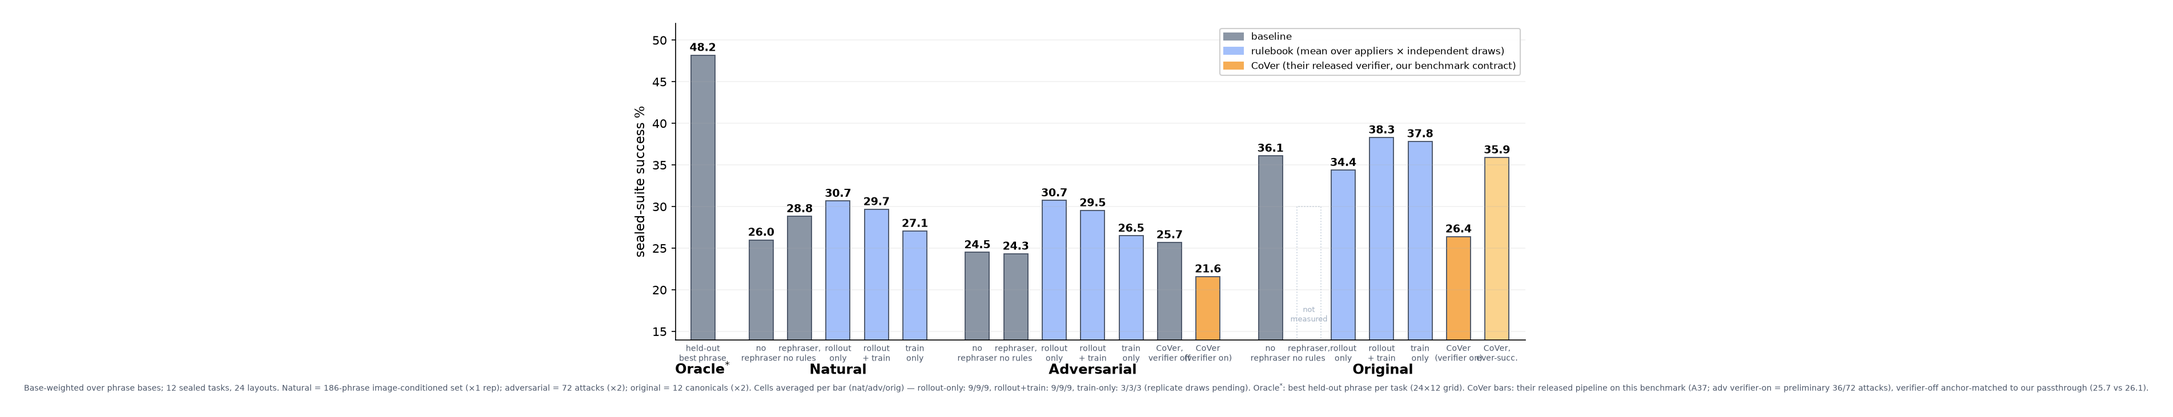
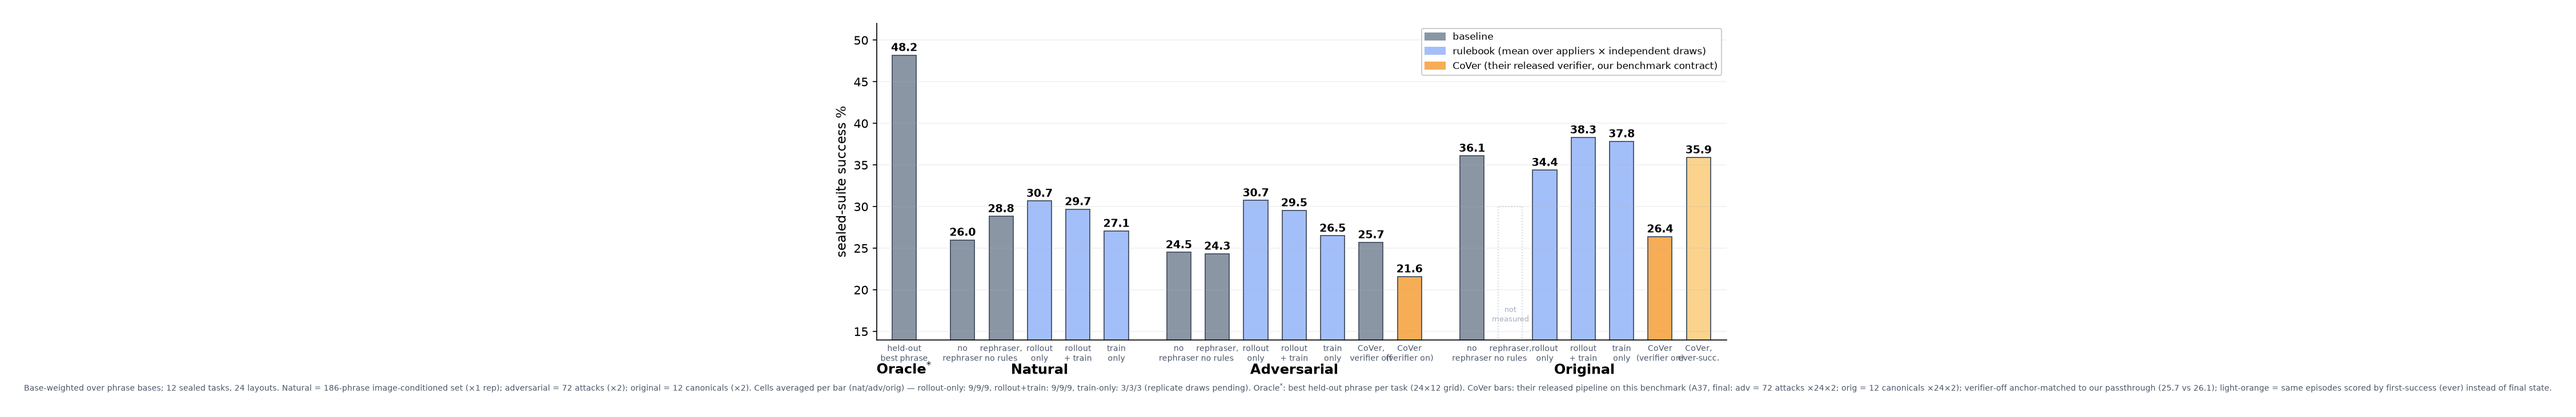
dashboard footnote: final adv, orig cluster, ever-bar note

Changed region(s): [[0.0, 0.0903, 0.9924, 0.9631], [0.5272, 0.0602, 0.7133, 0.1806]]

diff --git a/scripts/make_rules_summary_bars.py b/scripts/make_rules_summary_bars.py
@@ -142,8 +142,9 @@ fig.text(0.5, -0.015,
          f"rollout+train: {nc('Natural','rollout + train')}/{nc('Adversarial','rollout + train')}/{nc('Original','rollout + train')}, "
          f"train-only: 3/3/3 (replicate draws pending). "
          "Oracle$^{*}$: best held-out phrase per task (24\u00d712 grid). "
-         "CoVer bars: their released pipeline on this benchmark (A37; adv verifier-on = "
-         "preliminary 36/72 attacks), verifier-off anchor-matched to our passthrough (25.7 vs 26.1).",
+         "CoVer bars: their released pipeline on this benchmark (A37, final: adv = 72 attacks ×24×2; "
+         "orig = 12 canonicals ×24×2); verifier-off anchor-matched to our passthrough (25.7 vs 26.1); "
+         "light-orange = same episodes scored by first-success (ever) instead of final state.",
          ha="center", fontsize=6.8, color="#4a5568")
 
 out = R / "results/charts/rules_summary_bars.png"
